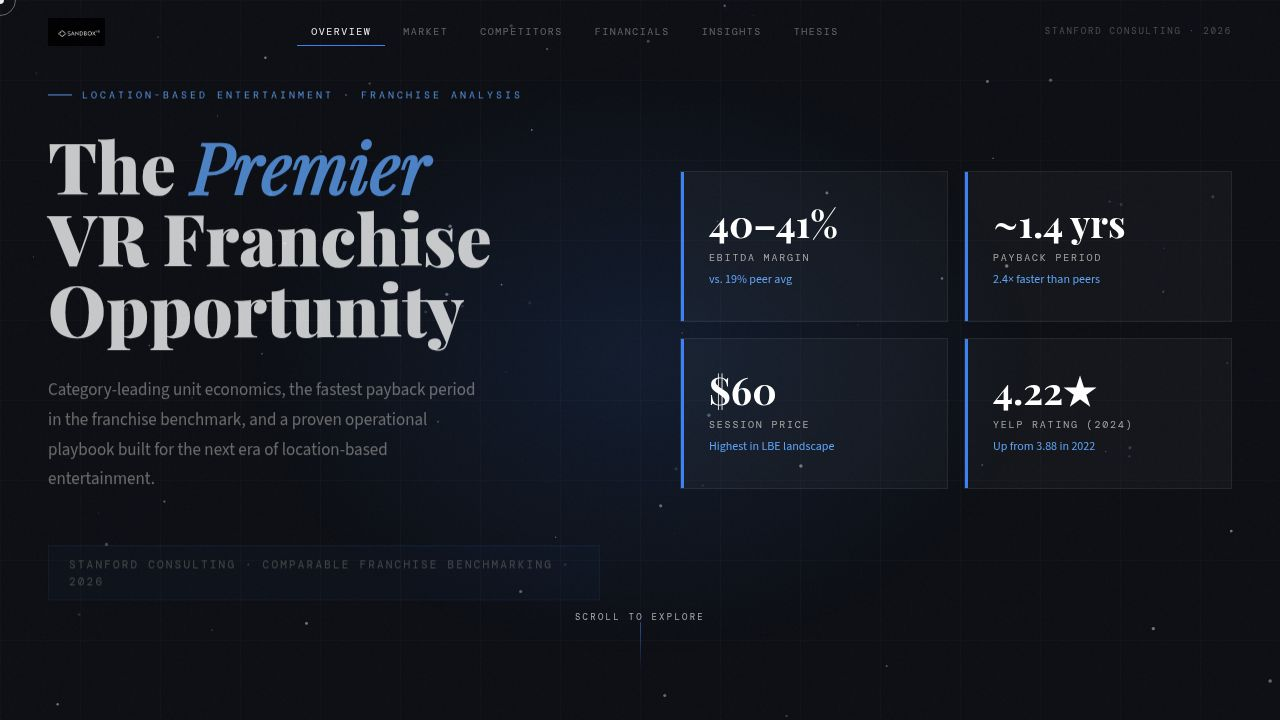
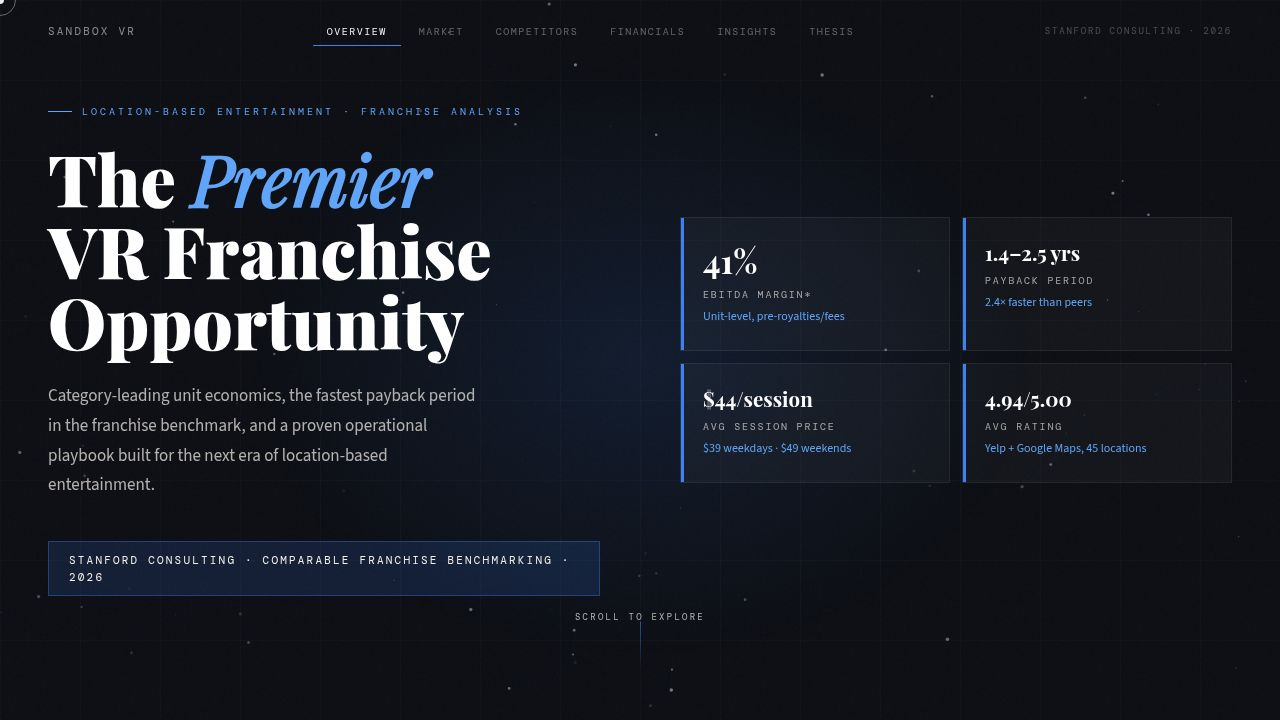
Update financial metrics, payback range, EBITDA notes, and CAPEX TI disclosure

diff --git a/src/sections/FinancialSection.tsx b/src/sections/FinancialSection.tsx
@@ -12,7 +12,7 @@ const marginData = [
 ];
 
 const paybackData = [
-  { label: "Sandbox VR", yrs: 1.4, highlight: true },
+  { label: "Sandbox VR", yrs: 2.5, highlight: true },
   { label: "iSMASH", yrs: 2.1 },
   { label: "Color Me Mine", yrs: 2.1 },
   { label: "Zero Latency", yrs: 2.5 },
@@ -71,7 +71,7 @@ export default function FinancialSection() {
             marginBottom: 40,
           }}
         >
-          Structural unit economics advantage with operator EBITDA margin 41% vs. peer avg 19%
+          Structural unit economics advantage with unit-level EBITDA margin* 41% vs. peer avg 19%
           (+21 ppt, 2.1× higher), sustained 2022–2024. Payback 2.4× faster than peers.
         </p>
 
@@ -90,12 +90,12 @@ export default function FinancialSection() {
             {
               num: "2.1×",
               label: "Higher EBITDA than peer average",
-              detail: "Only concept at 41% EBITDA while most peers cluster at 10–20%",
+              detail: "Only concept at 41% unit-level EBITDA* while most peers cluster at 10–20%",
             },
             {
               num: "2.4×",
               label: "Faster capital recovery",
-              detail: "1.4yr payback in tight 1.3–1.5yr range across 3 years   peers span 1–6+ yrs",
+              detail: "1.4–2.5yr payback range across locations — peers span 2–6+ yrs",
             },
             {
               num: "$282",
@@ -160,7 +160,7 @@ export default function FinancialSection() {
                 marginBottom: 6,
               }}
             >
-              EBITDA Margin
+              EBITDA Margin *
             </div>
             <div
               className="fade-in fade-in-delay-1"
@@ -266,7 +266,7 @@ export default function FinancialSection() {
                 marginBottom: 4,
               }}
             >
-              1.4 yrs
+              1.4–2.5 yrs
             </div>
             <div
               className="fade-in fade-in-delay-2"
@@ -371,6 +371,19 @@ export default function FinancialSection() {
             >
               Stable +2% over 2022–2024 (+predictability)
             </div>
+            <div
+              className="fade-in fade-in-delay-2"
+              style={{
+                fontSize: 11,
+                color: "rgba(255,255,255,0.45)",
+                marginBottom: 16,
+                lineHeight: 1.6,
+                borderLeft: "2px solid rgba(255,255,255,0.12)",
+                paddingLeft: 10,
+              }}
+            >
+              † Excludes Tenant Improvement (TI) costs covered upfront by landlords and repaid through rent. Initial cash outlay may be lower, but effective investment and ongoing rent load are higher.
+            </div>
             <div style={{ display: "flex", flexDirection: "column", gap: 10 }}>
               {capexData.map((item, i) => (
                 <div key={item.label} className={`fade-in fade-in-delay-${Math.min(i, 5)}`}>
@@ -425,6 +438,20 @@ export default function FinancialSection() {
               ))}
             </div>
           </div>
+        </div>
+
+        {/* Footnotes */}
+        <div
+          style={{
+            marginTop: 48,
+            paddingTop: 24,
+            borderTop: "1px solid rgba(255,255,255,0.08)",
+            fontSize: 11,
+            color: "rgba(255,255,255,0.38)",
+            lineHeight: 1.7,
+          }}
+        >
+          * EBITDA figures are unit-level and pre-royalties/fees. Reported margins do not reflect franchisee-level net returns after franchisor royalties, marketing fees, and other obligations.
         </div>
       </div>
     </section>

diff --git a/src/sections/LCLLSection.tsx b/src/sections/LCLLSection.tsx
@@ -3,7 +3,7 @@ const categories = [
     name: "Quick Service Restaurants",
     desc: "Compact, standardized food concepts built for high foot traffic and fast throughput. Moderate capital requirements with proven brand systems, but margins and payback periods fall well short of what Sandbox VR delivers.",
     examples: ["Fast Casual Dining", "Dessert Concepts", "Pizza Chains", "Bakery Brands"],
-    insight: "QSR concepts top out at 15 to 20% EBITDA margins and require 2.5 to 5 years to recoup investment. Sandbox VR delivers more than double the margin at 40 to 41% and pays back in just 1.4 years.",
+    insight: "QSR concepts top out at 15 to 20% EBITDA margins and require 2.5 to 5 years to recoup investment. Sandbox VR delivers more than double the unit-level margin at 40 to 41%* and pays back in 1.4–2.5 years.",
     capex: "$300K-$2M",
     payback: "2.5-5 yrs",
     ebitda: "15-20%",
@@ -39,8 +39,8 @@ const categories = [
 
 const sbvr = {
   capex: "$1.05M",
-  payback: "1.4 yrs",
-  ebitda: "41%",
+  payback: "1.4–2.5 yrs",
+  ebitda: "41%*",
 };
 
 export default function LCLLSection() {
@@ -306,7 +306,7 @@ export default function LCLLSection() {
         >
           <strong style={{ color: "#ffffff" }}>The bottom line: </strong>
           The most capital-efficient low-labor franchises cap at 35% EBITDA with payback periods of 1.5 years or longer.
-          Sandbox VR delivers 41% EBITDA and a 1.4-year payback while offering a product that no low-capital concept can
+          Sandbox VR delivers 41% unit-level EBITDA* and a 1.4–2.5 year payback while offering a product that no low-capital concept can
           compete with on experience, pricing power, or repeat demand.
         </div>
       </div>

diff --git a/src/sections/CompetitorSection.tsx b/src/sections/CompetitorSection.tsx
@@ -35,7 +35,7 @@ const competitors: {
     price: "$44 avg",
     ip: "7+",
     franchises: "65",
-    economics: "$1.2M–$1.8M investment; 41% EBITDA margin; 1.4-year payback — highest-returning franchise in LBE",
+    economics: "$1.2M–$1.8M investment; 41% EBITDA margin* (unit-level, pre-royalties/fees); 1.4–2.5 year payback — highest-returning franchise in LBE",
     isSandboxVR: true,
   },
   {
@@ -410,8 +410,8 @@ export default function CompetitorSection() {
         >
           <strong style={{ color: "#ffffff", fontSize: 15 }}>Sandbox VR vs. the field: </strong>
           <span style={{ fontSize: 14, color: "rgba(255,255,255,0.8)", lineHeight: 1.7 }}>
-            Sandbox VR leads the LBE benchmark on every key dimension: 41% EBITDA margin vs. a 19% landscape average,
-            1.4-year payback vs. 2.1 to 5 years for peers, and a 4.94/5.0 average rating across 45 locations.
+            Sandbox VR leads the LBE benchmark on every key dimension: 41% unit-level EBITDA margin* (pre-royalties/fees) vs. a 19% landscape average,
+            1.4–2.5 year payback vs. 2.1 to 5 years for peers, and a 4.94/5.0 average rating across 45 locations.
             No other concept pairs proprietary IP, $44 avg session pricing ($49 peak on weekends), and category-leading repeat demand.
           </span>
         </div>

diff --git a/src/sections/InvestmentThesisSection.tsx b/src/sections/InvestmentThesisSection.tsx
@@ -2,12 +2,12 @@ const pillars = [
   {
     num: "I",
     title: "Structural Margin Superiority",
-    desc: "40 to 41% EBITDA margin sustained consistently from 2022 to 2024, more than double the 19% peer average. No other concept in the benchmark approaches this level. Higher margin gives franchisees the room to reinvest in performance while maintaining strong returns.",
+    desc: "40 to 41% unit-level EBITDA margin* (pre-royalties/fees) sustained consistently from 2022 to 2024, more than double the 19% peer average. No other concept in the benchmark approaches this level. Higher margin gives franchisees the room to reinvest in performance while maintaining strong returns.",
   },
   {
     num: "II",
     title: "Industry-Leading Payback Period",
-    desc: "A 1.4-year payback period is the fastest in the franchise benchmark, 2.4 times quicker than the peer average. CAPEX has remained stable at approximately $1.05M with only a 2% variance over three years, reducing buildout risk for new operators.",
+    desc: "A 1.4–2.5 year payback period is among the fastest in the franchise benchmark. CAPEX has remained stable at approximately $1.05M† with only a 2% variance over three years, reducing buildout risk for new operators.",
   },
   {
     num: "III",

diff --git a/src/sections/LBELandscapeSection.tsx b/src/sections/LBELandscapeSection.tsx
@@ -27,7 +27,7 @@ const lbeCategories = [
     footprint: "1k–10k sqft",
     desc: "Technology-infused experiences for social interaction and gameplay. Premium pricing sustained by IP and hardware barriers.",
     capex: "$1M avg",
-    payback: "1.4 yrs",
+    payback: "1.4–2.5 yrs",
     auv: "$1.5M avg",
     examples: ["Sandbox VR ★", "Zero Latency", "Ctrl V", "Activate", "EVA"],
     finding: "Sandbox VR's 41% EBITDA margin is nearly double the landscape average. Proprietary tech sustains premium pricing ($44 avg, $49 peak) that no other category can replicate.",

diff --git a/src/sections/HeroSection.tsx b/src/sections/HeroSection.tsx
@@ -1,8 +1,8 @@
 import { useEffect, useRef } from "react";
 
 const kpis = [
-  { val: "41%", label: "EBITDA Margin", sub: "vs. 19% LBE avg" },
-  { val: "1.4 yrs", label: "Payback Period", sub: "2.4× faster than peers" },
+  { val: "41%", label: "EBITDA Margin*", sub: "Unit-level, pre-royalties/fees" },
+  { val: "1.4–2.5 yrs", label: "Payback Period", sub: "2.4× faster than peers" },
   { val: "$44/session", label: "Avg Session Price", sub: "$39 weekdays · $49 weekends" },
   { val: "4.94/5.00", label: "Avg Rating", sub: "Yelp + Google Maps, 45 locations" },
 ];

diff --git a/src/sections/FooterSection.tsx b/src/sections/FooterSection.tsx
@@ -185,8 +185,8 @@ export default function FooterSection() {
             {[...Array(2)].map((_, i) => (
               <div key={i} style={{ display: "flex", gap: 60, flexShrink: 0 }}>
                 {[
-                  "41% EBITDA",
-                  "1.4yr Payback",
+                  "41% EBITDA*",
+                  "1.4–2.5yr Payback",
                   "$44 avg/session",
                   "65+ Locations",
                   "4.22★ Yelp Rating",
